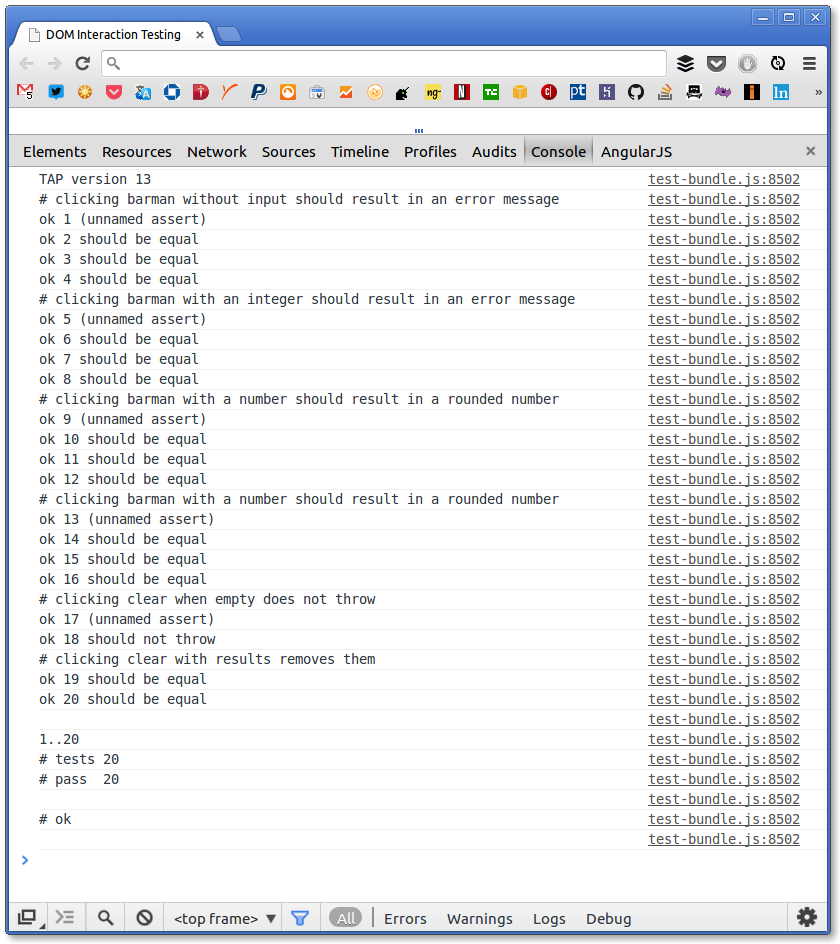
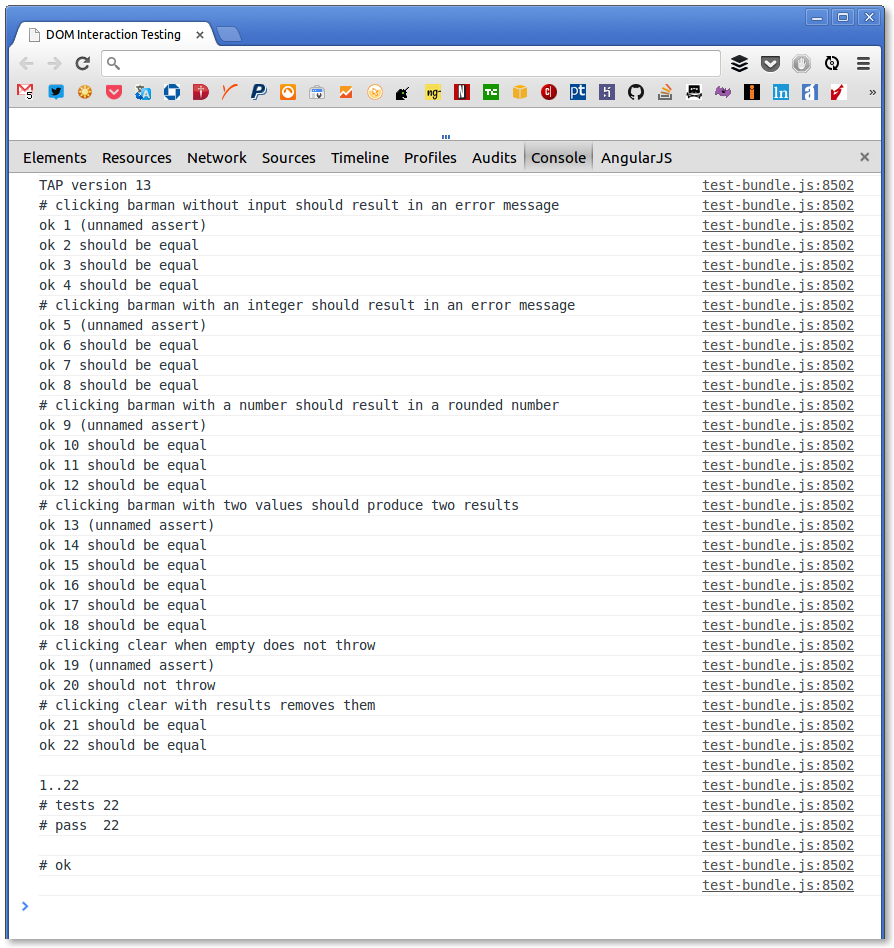
update picture, tests

Changed region(s): [[0.0, 0.0, 0.9905, 1.0]]

diff --git a/ch08/07_dom-interaction-testing/test/event-bar.js b/ch08/07_dom-interaction-testing/test/event-bar.js
@@ -20,13 +20,13 @@ function teardown () {
   ['.barman', '.square', '.result', '.clear'].forEach(rm);
 }
 
-function setdown (name, cb) {
+function testCase (name, cb) {
   var t = test(name, cb);
   t.once('prerun', setup);
   t.once('end', teardown);
 }
 
-setdown('clicking barman without input should result in an error message', function (t) {
+testCase('clicking barman without input should result in an error message', function (t) {
   // Arrange
   var barman = document.querySelector('.barman');
   var result;
@@ -43,7 +43,7 @@ setdown('clicking barman without input should result in an error message', funct
   t.equal(result[0].innerText, 'Do you even know what a number is?');
 });
 
-setdown('clicking barman with an integer should result in an error message', function (t) {
+testCase('clicking barman with an integer should result in an error message', function (t) {
   // Arrange
   var barman = document.querySelector('.barman');
   var square = document.querySelector('.square');
@@ -62,7 +62,7 @@ setdown('clicking barman with an integer should result in an error message', fun
   t.equal(result[0].innerText, 'You are such a unit. Integers cannot be rounded!');
 });
 
-setdown('clicking barman with a number should result in a rounded number', function (t) {
+testCase('clicking barman with a number should result in a rounded number', function (t) {
   // Arrange
   var barman = document.querySelector('.barman');
   var square = document.querySelector('.square');
@@ -82,7 +82,7 @@ setdown('clicking barman with a number should result in a rounded number', funct
   t.equal(result[0].innerText, 'Rounded to ' + Math.round(value) + '. Another round?');
 });
 
-setdown('clicking barman with a number should result in a rounded number', function (t) {
+testCase('clicking barman with two values should produce two results', function (t) {
   // Arrange
   var barman = document.querySelector('.barman');
   var square = document.querySelector('.square');
@@ -92,17 +92,21 @@ setdown('clicking barman with a number should result in a rounded number', funct
   // Act
   square.value = value.toString();
   barman.click();
+  square.value = '3';
+  barman.click();
   result = document.querySelectorAll('.result p');
 
   // Assert
-  t.plan(4);
+  t.plan(6);
   t.ok(barman);
-  t.equal(result.length, 1);
+  t.equal(result.length, 2);
   t.equal(result[0].className, 'rounded');
   t.equal(result[0].innerText, 'Rounded to ' + Math.round(value) + '. Another round?');
+  t.equal(result[1].className, 'error');
+  t.equal(result[1].innerText, 'You are such a unit. Integers cannot be rounded!');
 });
 
-setdown('clicking clear when empty does not throw', function (t) {
+testCase('clicking clear when empty does not throw', function (t) {
   // Arrange
   var clear = document.querySelector('.clear');
 
@@ -114,7 +118,7 @@ setdown('clicking clear when empty does not throw', function (t) {
   });
 });
 
-setdown('clicking clear with results removes them', function (t) {
+testCase('clicking clear with results removes them', function (t) {
   // Arrange
   var barman = document.querySelector('.barman');
   var square = document.querySelector('.square');
